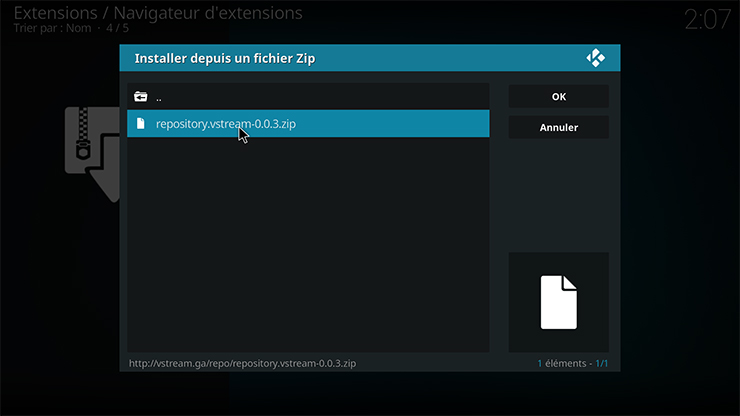
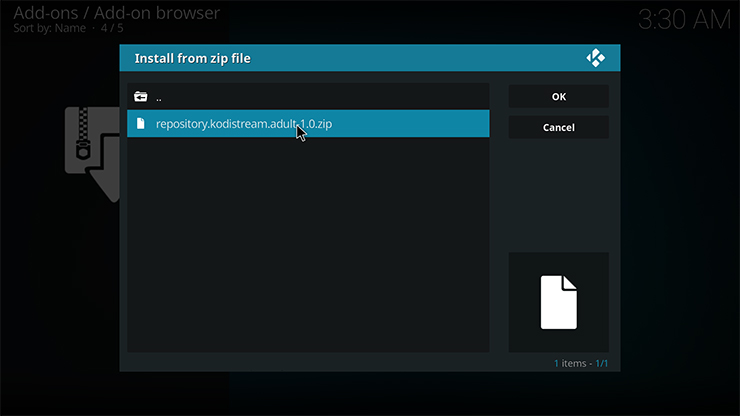
Update

diff --git a/index.html b/index.html
@@ -15,8 +15,8 @@ images:
 
 <div class="header-container jumbotron">
     <div class="container">
-        <h1>vStream</h1>
-        <p>Addon de streaming pour Kodi</p>
+        <h1>Adult Stream</h1>
+        <p>Addon de streaming Adulte pour Kodi</p>
         <p><a class="btn btn-primary btn-lg" href="{{ "/docs/home/" | prepend: site.baseurl }}" role="button">Plus</a></p>
     </div>
 </div>
@@ -26,12 +26,11 @@ images:
 
     <div class="row">
         <div class="col-md-6">
-            <h2 class="header-light regular-pad">C'est quoi vStream?</h2>
+            <h2 class="header-light regular-pad">C'est quoi Adult Stream ?</h2>
             <blockquote>
-                <p>vStream est un addon pour Kodi qui vous permet de visionner en streaming un grand nombre de sources video
-                  (comme la télévision, les films, les séries, les mangas, les documentaires, etc..) 
-                  il vous est même possible de télécharger certaine source, de les mettre en favoris ou de voir 
-                  la bande annonce. Le tout depuis KODI et 100% français.
+                <p>Adult Stream est un addon pour Kodi qui vous permet de visionner en streaming un grand nombre de sources vidéo 
+                  pornographiques (hétéro, gay, shemale, etc..).
+                  Il vous est même possible de de les mettre en favoris. Le tout depuis KODI.
                 </p>
             </blockquote>
         </div>

diff --git a/_docs/installation.md b/_docs/installation.md
@@ -6,7 +6,7 @@ permalink: /docs/installation/
 ### Télécharger
 ------
 
-[![images](https://img.shields.io/badge/T%C3%A9l%C3%A9charger-Repository-blue.svg?style=for-the-badge)](https://github.com/Kodi-vStream/venom-xbmc-addons/releases/tag/0.0.3)
+[![images](https://img.shields.io/badge/T%C3%A9l%C3%A9charger-Repository-blue.svg?style=for-the-badge)](https://github.com/KodiStream/xbmc-adult-addons/releases/tag/0.0.1)
 
 ### Installer le repository
 ---
@@ -20,19 +20,12 @@ permalink: /docs/installation/
 
 ### Installer depuis un fichier .zip
 
- - Choisissez le dossier local contenant repository.vstream-x.x.x.zip
+ - Choisissez le dossier local contenant repository.kodistream.adult-x.x.zip
  
 ![images](https://github.com/Kodi-vStream/venom-xbmc-doc/raw/gh-pages/img/install_2.jpg)
 
 
-### Installer depuis une Url
-
-- Choisisser le dossier créer avec l'adresse http://vstream.ga/repo/
-
-![images](https://github.com/Kodi-vStream/venom-xbmc-doc/raw/gh-pages/img/install_repo6.jpg)
-
-
-### Installer l'addon vstream
+### Installer l'addon Adult Stream
 
  - Depuis Home cliquer sur extensions puis sur Installer depuis un dépôt.
  
@@ -40,7 +33,7 @@ permalink: /docs/installation/
 
 
 
-- Sélectionner vStream Repository.
+- Sélectionner KodiStream Adult Addons Repository.
 
 ![images](https://github.com/Kodi-vStream/venom-xbmc-doc/raw/gh-pages/img/install_4.jpg)   
 
@@ -52,13 +45,13 @@ permalink: /docs/installation/
 
 
 
-- Sélectionner vStream.
+- Sélectionner Adult Stream.
 
 ![images](https://github.com/Kodi-vStream/venom-xbmc-doc/raw/gh-pages/img/install_6.jpg)
   
   
   
-- Sélectionner vStream / Installater
+- Sélectionner Adult Stream / Installer
 
 ![images](https://github.com/Kodi-vStream/venom-xbmc-doc/raw/gh-pages/img/install_7.jpg)
  
